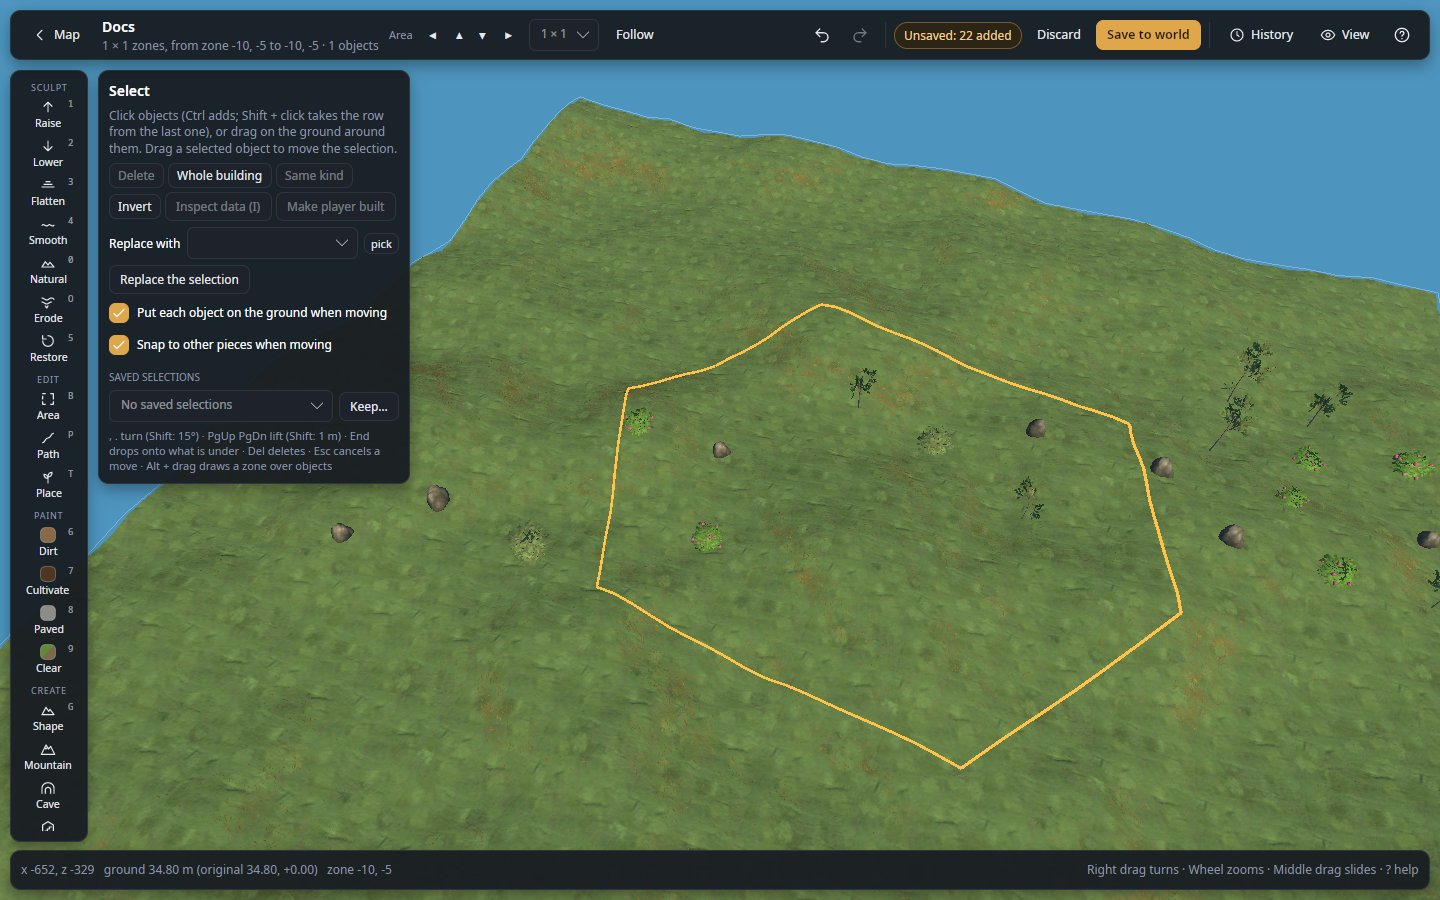
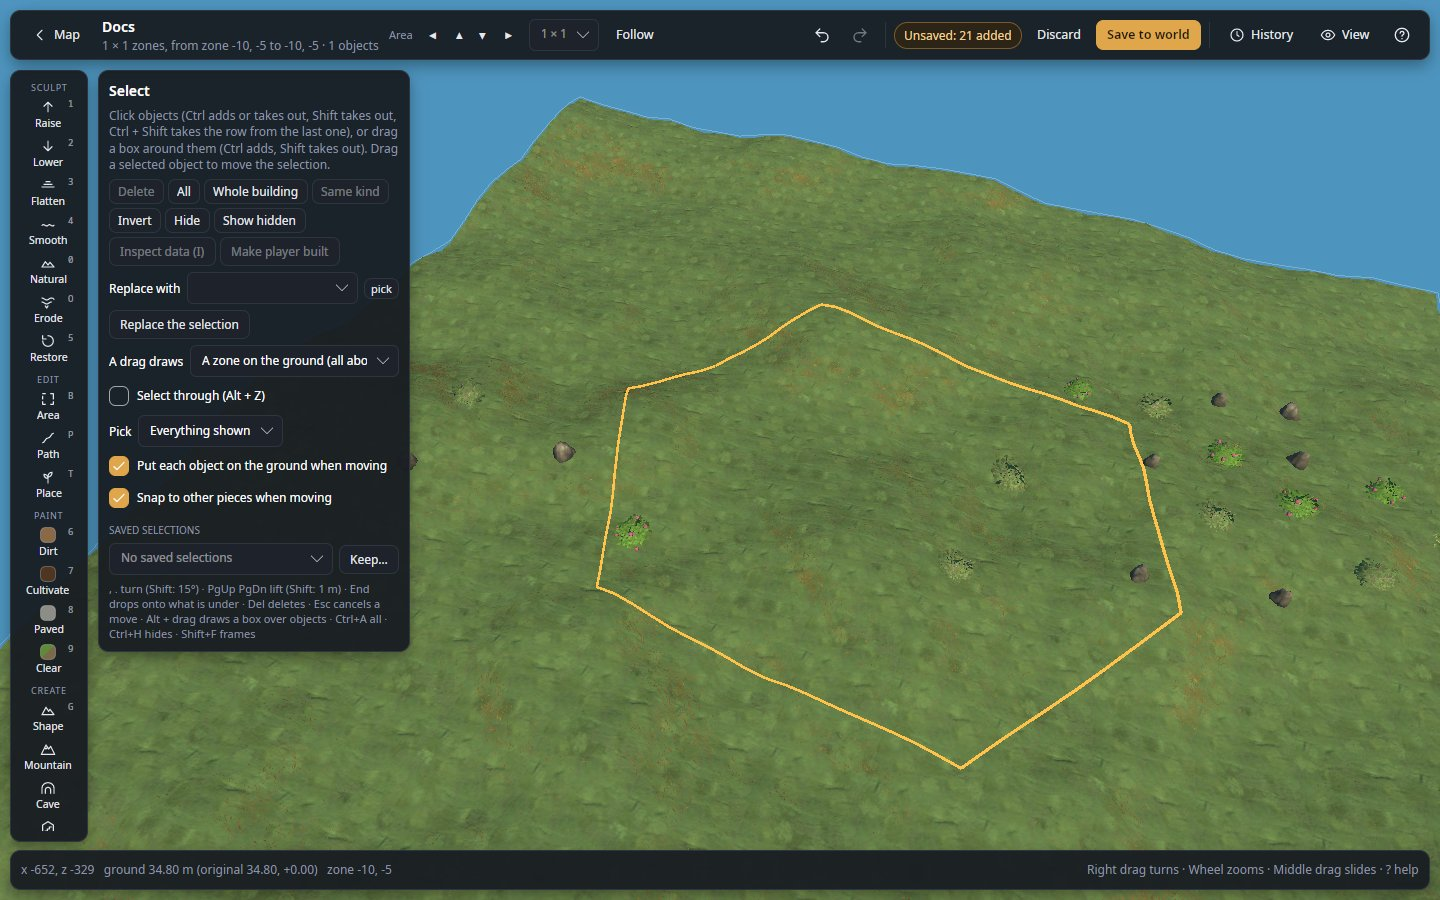
Document the reworked Select tool with new pictures
Box, Select through, Pick, hiding and outline pictures replace the boxed ones; the panel's key hint names the box and the new keys.

diff --git a/tools/DocsScreenshots/Scenes.Objects.cs b/tools/DocsScreenshots/Scenes.Objects.cs
@@ -251,15 +251,89 @@ public sealed partial class Scenes
         e.Shot(Out("select-building.jpg"), keepMessage: true);
     }
 
+    /// <summary>A hut with a chest and a fire pit inside, seen from above at an angle: the Select tool on.</summary>
+    private void HutInView(Editor e)
+    {
+        Bare(e, unsaved: false);
+        Level(e);
+        Hut(e, P(-6, -4), P(6, 4));
+        // On the floor: placed after it (Place puts them on what is under them), between its pieces' middles (One
+        // at a time keeps 0.3 m from any object).
+        Pieces(e);
+        Kinds(e, "piece_chest_wood");
+        Single(e, P(-4, 2));
+        Kinds(e, "fire_pit");
+        Single(e, P(-2, -2));
+        e.Send("check One at a time, exactly at the cursor|off");
+        e.Send("key E");
+        Camera(e, 6, 0, 200, 40, 30);
+        // A frame drawn with this camera: the mouse's points are read with the last frame's.
+        e.Send("wait 300");
+    }
+
     /// <summary>
-    /// select-zone-drawing.jpg and select-zone.jpg: a selection ring drawn with Alt around rocks and bushes, then the
-    /// selection it made.
+    /// select-box-drawing.jpg and select-box.jpg: a box drawn on the screen over the west half of the hut, then what it
+    /// took: the pieces seen inside it, the hut's other half left.
+    /// </summary>
+    private void SelectBox(Editor e)
+    {
+        HutInView(e);
+        // At this turn east is on the picture's left: the box goes from the hut's middle over its west half.
+        Drag(e, P(0, -8), P(-9, 8), mods: "alt", release: false);
+        e.Shot(Out("select-box-drawing.jpg"));
+        e.Send($"mouse up {P(-9, 8).X} {P(-9, 8).Z} left alt");
+        e.Send("wait 300");
+        e.Shot(Out("select-box.jpg"), keepMessage: true);
+    }
+
+    /// <summary>select-through.jpg: the same box with Select through on: what is behind the walls is taken too.</summary>
+    private void SelectThrough(Editor e)
+    {
+        HutInView(e);
+        e.Send("check Select through (Alt + Z)|on");
+        Drag(e, P(0, -8), P(-9, 8), mods: "alt");
+        e.Send("wait 300");
+        e.Shot(Out("select-through.jpg"), keepMessage: true);
+    }
+
+    /// <summary>
+    /// select-pick.jpg: Pick Built pieces only, a box over a hut among rocks, bushes and young trees: the hut alone.
+    /// </summary>
+    private void SelectPick(Editor e)
+    {
+        Bare(e, unsaved: false);
+        Level(e);
+        Trees(e, P(-14, -9), P(14, 9), density: 3, kinds: ["Rock_3", "Bush01", "Beech_small1"]);
+        Hut(e, P(-6, -4), P(6, 4));
+        e.Send("key E");
+        e.Send("choose Built pieces only");
+        Camera(e, 6, 0, 200, 55, 34);
+        e.Send("wait 300");
+        Drag(e, P(12, -10), P(-12, 10), mods: "alt");
+        e.Send("wait 300");
+        e.Shot(Out("select-pick.jpg"), keepMessage: true);
+    }
+
+    /// <summary>select-hide.jpg: the hut's west half boxed and hidden (Ctrl + H): the chest and fire pit inside show.</summary>
+    private void SelectHide(Editor e)
+    {
+        HutInView(e);
+        Drag(e, P(0, -8), P(-9, 8), mods: "alt");
+        e.Send("key H ctrl");
+        e.Send("wait 300");
+        e.Shot(Out("select-hide.jpg"), keepMessage: true);
+    }
+
+    /// <summary>
+    /// select-zone-drawing.jpg and select-zone.jpg: with "A drag draws: A zone on the ground", a selection ring drawn
+    /// with Alt around rocks and bushes, then the selection it made.
     /// </summary>
     private void SelectZone(Editor e)
     {
         Bare(e, unsaved: false);
         Trees(e, P(-20, -8), P(20, 8), density: 6, kinds: ["Rock_3", "Bush01", "Beech_small1", "RaspberryBush"]);
         e.Send("key E");
+        e.Send("choose A zone on the ground (all above it)");
         (double X, double Z)[] ring = [P(-12, -10), P(6, -12), P(14, -2), P(10, 10), P(-6, 12), P(-14, 2), P(-12, -9)];
         Path(e, ring, steps: 2, hold: 30, mods: "alt", release: false);
         Camera(e, 8, 0, 200, 48, 40);

diff --git a/tools/DocsScreenshots/Scenes.cs b/tools/DocsScreenshots/Scenes.cs
@@ -78,6 +78,10 @@ public sealed partial class Scenes
             // Select (select.md).
             ("select-arrows", SelectArrows),
             ("select-building", SelectBuilding),
+            ("select-box", SelectBox),
+            ("select-through", SelectThrough),
+            ("select-pick", SelectPick),
+            ("select-hide", SelectHide),
             ("select-zone", SelectZone),
             ("inspector", Inspector),
             // Dungeons (dungeons.md).

diff --git a/docs/select.md b/docs/select.md
@@ -5,8 +5,9 @@
 orange ring to turn it. The Select panel is on the left.*
 
 Pick objects (trees, rocks, building pieces, anything shown), then move, turn, lift, drop, copy, replace
-or delete them, or open one in the Inspector to see and change what it holds in the save. The object
-under the cursor is outlined faintly: that is the one a click picks.
+or delete them, or open one in the Inspector to see and change what it holds in the save. Selecting works
+like in Blender or a map editor: click, `Ctrl` + click to add, `Shift` + click to take out, or drag a box on the
+screen round what you see. The object under the cursor has a faint box: that is the one a click picks.
 
 Only objects that are shown can be picked: switch kinds on in the
 [View panel](editor-basics.md#view-panel) first. Runestones can be picked and deleted, but not moved,
@@ -17,7 +18,7 @@ deleting one removes that location for good (with the small levelling of the gro
 
 1. Press `E` (or **Select** in the rail's TOOLS section). From the **View** tool, a double click on an object
    also switches to Select with that object selected, its arrows and ring ready.
-2. Click an object, `Ctrl` + click more, or drag on empty ground around them.
+2. Click an object, `Ctrl` + click more, or drag a box on the screen around them.
 3. Drag a selected object, an arrow or the ring to move or turn the selection; or use the keys, the
    **EXACT PLACE** fields, or the panel's buttons.
 
@@ -26,35 +27,76 @@ until you **Save** (or **Apply live**).
 
 ## Selecting
 
+### Clicking
+
 | Action | What it does |
 |---|---|
-| **Click** an object | Selects it, and only it. An orange line round their shapes marks the selected objects, the last one clicked (the active one) in a lighter yellow, as in Blender; a blue box shows what is under the cursor. |
+| **Click** an object | Selects it, and only it. |
 | **Click again** at the same spot | Selects the next object behind the one selected there, then the next, and round again (a chest on a floor, the floor under it, the beam below), as in Unity. |
 | `Ctrl` + click | Adds an object to the selection, or takes it out when it is selected already. Dragging any selected object then moves them all together. |
 | `Shift` + click | Takes an object out of the selection. |
 | `Ctrl` + `Shift` + click | Adds the row from the last object clicked to this one: click wall 1, then `Ctrl` + `Shift` + click wall 3, and walls 1, 2 and 3 are selected (the objects on the line between them). |
-| **Drag on empty ground** | Draws a box on the screen; when you let go, the objects **seen** inside it are selected, not those hidden behind others or behind the ground. Look at a building from the side or from above to pick one floor, one wall or its roof. Dragged any way round. |
-| `Alt` + drag | Draws the box even when you start over an object (over a building, or in woods where trees cover the ground). |
-| **Pick** (Select panel) | What clicks, boxes and zones take: **Everything shown**, **Built pieces only** (a box over a house leaves its trees and rocks, and takes the walls behind a tree) or **Nature only** (trees, rocks, ore, bushes, pickables, remains). What is left out is still drawn. Other tools are not affected. |
-| **Select through** (Select panel) / `Alt` + `Z` | The box also takes what is hidden behind others inside it: the furniture inside a house, the wall behind another. Like Blender's X-ray. |
-| **A drag draws: A zone on the ground** (Select panel) | Drags draw an outline on the ground instead, and everything shown above it is selected, from the ground up, hidden or not. |
-| | A zone, **Same kind**, **Invert** and **Whole building** leave out anything more than 10 m under the ground: objects a mod hides there (crafting stations 10 km under a house) are not part of what stands above. |
-| `Ctrl` + drag | Adds what the box or the zone takes to the selection. |
-| `Shift` + drag | Takes what the box or the zone takes out of the selection. |
-| `Ctrl` + `A` / `Alt` + `A` / `Ctrl` + `I` (or **All**, **Invert**) | Selects every shown object / clears the selection / inverts it. |
-| `Ctrl` + `H` / `Alt` + `H` (or **Hide**, **Show hidden**) | Hides the selected objects in the view, to reach what they cover (inside a house: hide the roof); they are not drawn, picked or boxed, and nothing changes in the world. `Alt` + `H` shows them all again. |
-| `Shift` + `F` or Numpad `.` | Turns the camera onto the selection, close enough to see all of it (`F` alone switches the eye). |
-| **Click on empty ground** / `Esc` | Clears the selection (`Esc` first cancels a zone being drawn or a move in progress); with `Ctrl` or `Shift` held, a click on the ground keeps it. |
+| **Click on empty ground** / `Esc` | Clears the selection (`Esc` first cancels a box or zone being drawn, or a move in progress). With `Ctrl` or `Shift` held, a click on the ground keeps it. |
 | **Double-click a building piece** | Selects the whole building (see **Whole building** below). A chest (any container) is the exception: a double click selects it alone and opens it in the [Inspector](#inspecting-and-changing-an-objects-data). |
 | **Double-click a linked object's part** | Selects its whole [group](#linked-objects-ships-and-other-mods-groups) (a ship mod's vessel): its root and every part on it. |
 
+### A box on the screen
+
+A drag on empty ground draws a box on the screen. When you let go, the objects **seen** inside it are selected:
+not those hidden behind others or behind the ground. Turn the camera to choose what you take: from above, a
+building's floor and the tops of its walls; from the side, one wall; from the side and high, one storey.
+
+| Action | What it does |
+|---|---|
+| **Drag on empty ground** | Draws the box (any way round); what is seen inside it becomes the selection. |
+| `Alt` + drag | Draws the box even when you start over an object: over a building, or in woods where trees cover the ground. |
+| `Ctrl` + drag | Adds what the box takes to the selection. |
+| `Shift` + drag | Takes what the box takes out of the selection. |
+| **Select through** (Select panel) / `Alt` + `Z` | The box also takes what is hidden behind others inside it: the furniture inside a house, the wall behind another. Like Blender's X-ray. |
+| **Pick** (Select panel) | What clicks, boxes and zones take: **Everything shown**, **Built pieces only** (the pieces players built) or **Nature only** (trees, rocks, ore, bushes, pickables, remains). What is left out is still drawn, but neither taken nor in the way: with **Built pieces only**, a box takes the wall behind a tree. Other tools are not affected. |
+
+![Drawing a box over half a hut](images/select-box-drawing.jpg)
+*`Alt` + drag from the middle of a hut over its right half: the box is drawn on the screen.*
+
+![What the box took](images/select-box.jpg)
+*When you let go, what is seen inside the box is selected: 27 pieces, the walls, the floor showing between them
+and the fire pit. The floor and the chest hidden behind the near wall are left out.*
+
+![The same box with Select through](images/select-through.jpg)
+*The same box with **Select through** on: 33 pieces, the floor and the chest behind the near wall too.*
+
+![A box over a hut with Built pieces only](images/select-pick.jpg)
+***Pick: Built pieces only**, and a box over the whole hut among rocks, bushes and young trees: the hut's 58 pieces
+alone, none of what grows around it.*
+
+### A zone on the ground
+
+With **A drag draws: A zone on the ground** chosen in the Select panel, a drag draws an outline on the ground
+instead, and everything shown above it is selected, from the ground up, hidden or not: the objects whose position
+(their origin, where they stand) is inside it. `Alt`, `Ctrl` and `Shift` work as for the box.
+
 ![Drawing a selection zone with Alt + drag](images/select-zone-drawing.jpg)
-*With **A drag draws: A zone on the ground**, `Alt` + drag round rocks and bushes: the zone is drawn even though the
-drag started on a bush.*
+*`Alt` + drag round rocks and bushes: the zone is drawn even though the drag started on a bush.*
 
 ![The selection the zone made](images/select-zone.jpg)
-*When you let go, everything shown inside is selected, with one box round it all, and **EXACT PLACE** shows where
-the selection is.*
+*When you let go, everything shown inside is selected, and **EXACT PLACE** shows where the selection is.*
+
+Boxes, zones, **All**, **Same kind**, **Invert** and **Whole building** leave out anything more than 10 m under
+the ground: objects a mod hides there (crafting stations 10 km under a house) are not part of what stands above.
+
+### Keys, hiding and framing
+
+| Keys (or button) | What it does |
+|---|---|
+| `Ctrl` + `A` (**All**) | Selects every shown object. |
+| `Alt` + `A` | Clears the selection. |
+| `Ctrl` + `I` (**Invert**) | Selects every shown object that is not selected, and only those. |
+| `Ctrl` + `H` (**Hide**) | Hides the selected objects in the view, to reach what they cover. They are not drawn, picked or selected, and nothing changes in the world. |
+| `Alt` + `H` (**Show hidden**) | Shows every hidden object again. Opening another area forgets what was hidden. |
+| `Shift` + `F` or Numpad `.` | Turns the camera onto the selection, close enough to see all of it (`F` alone switches the eye). |
+
+![Half a hut hidden](images/select-hide.jpg)
+*The hut's right half boxed, then `Ctrl` + `H`: the chest inside shows. `Alt` + `H` brings the walls back.*
 
 ### How a click finds an object
 
@@ -71,16 +113,16 @@ the selection is.*
   Logs and stumps keep their box.
 - An object whose model is not loaded yet is picked by its box.
 
-A zone on the ground selects the objects whose position (their origin, where they stand) is inside it. A box on
-the screen selects what a click would find at its points (every 3 pixels, more apart in a big box), so an object
-counts as soon as a part of it is seen inside.
+A box on the screen selects what a click would find at its points (every 3 pixels, more apart in a big box), so
+an object counts as soon as a part of it is seen inside.
 
 ### How the selection shows
 
 An orange line follows the outer shape of the selected objects, seen through whatever is in front of them: a
 selected building is one clean outline, not a tangle of boxes, and a part of it (a floor, a wall) shows its own
-shape. The active object, the last one clicked while it stays selected, is outlined in a lighter yellow. An object
-whose model is still being read is marked by a thin box until it is drawn.
+shape. The active object, the last one clicked while it stays selected, is outlined in a lighter yellow (the rock
+at the top of this page). Selected objects lose their green unsaved dot while they are selected. An object whose
+model is still being read is marked by a thin box until it is drawn.
 
 ### Panel buttons
 
@@ -88,8 +130,10 @@ whose model is still being read is marked by a thin box until it is drawn.
 |---|---|
 | **Delete** (`Del`) | Removes the selected objects. `Ctrl+Z` brings them back; they leave the world when it is saved. |
 | **Whole building** | Adds every building piece connected to the selected pieces through pieces that touch: walls, floors, roofs, beams... Each piece's box is grown by 15 cm; boxes that overlap are connected. Pieces standing apart are not taken. |
+| **All** (`Ctrl` + `A`) | Selects every shown object in the area. |
 | **Same kind** | Selects every shown object in the area of the kinds selected now (select one beech, then all the beeches). |
-| **Invert** | Selects every shown object in the area that is not selected now, and only those. |
+| **Invert** (`Ctrl` + `I`) | Selects every shown object in the area that is not selected now, and only those. |
+| **Hide** (`Ctrl` + `H`) / **Show hidden** (`Alt` + `H`) | Hides the selected objects in the view / shows them again (see [Keys, hiding and framing](#keys-hiding-and-framing)). |
 | **Inspect data (I)** | Opens the [Inspector](#inspecting-and-changing-an-objects-data) on the one selected object. |
 | **Make player built** | See [Other actions](#other-actions). |
 

diff --git a/docs/editor-basics.md b/docs/editor-basics.md
@@ -154,7 +154,7 @@ Once you saved, the counts are what differs from that save: an undo after a save
 *Each new tree carries a green dot until it is saved; the status bar says what the last action did.*
 
 In the view, every new object not saved (or applied) yet carries a **green dot**, except while it is selected: the
-selection's box marks it then, and its dot comes back once you select something else. **View → Unsaved marks** hides
+selection's outline marks it then, and its dot comes back once you select something else. **View → Unsaved marks** hides
 the dots (the objects stay).
 
 ## Saving and discarding
